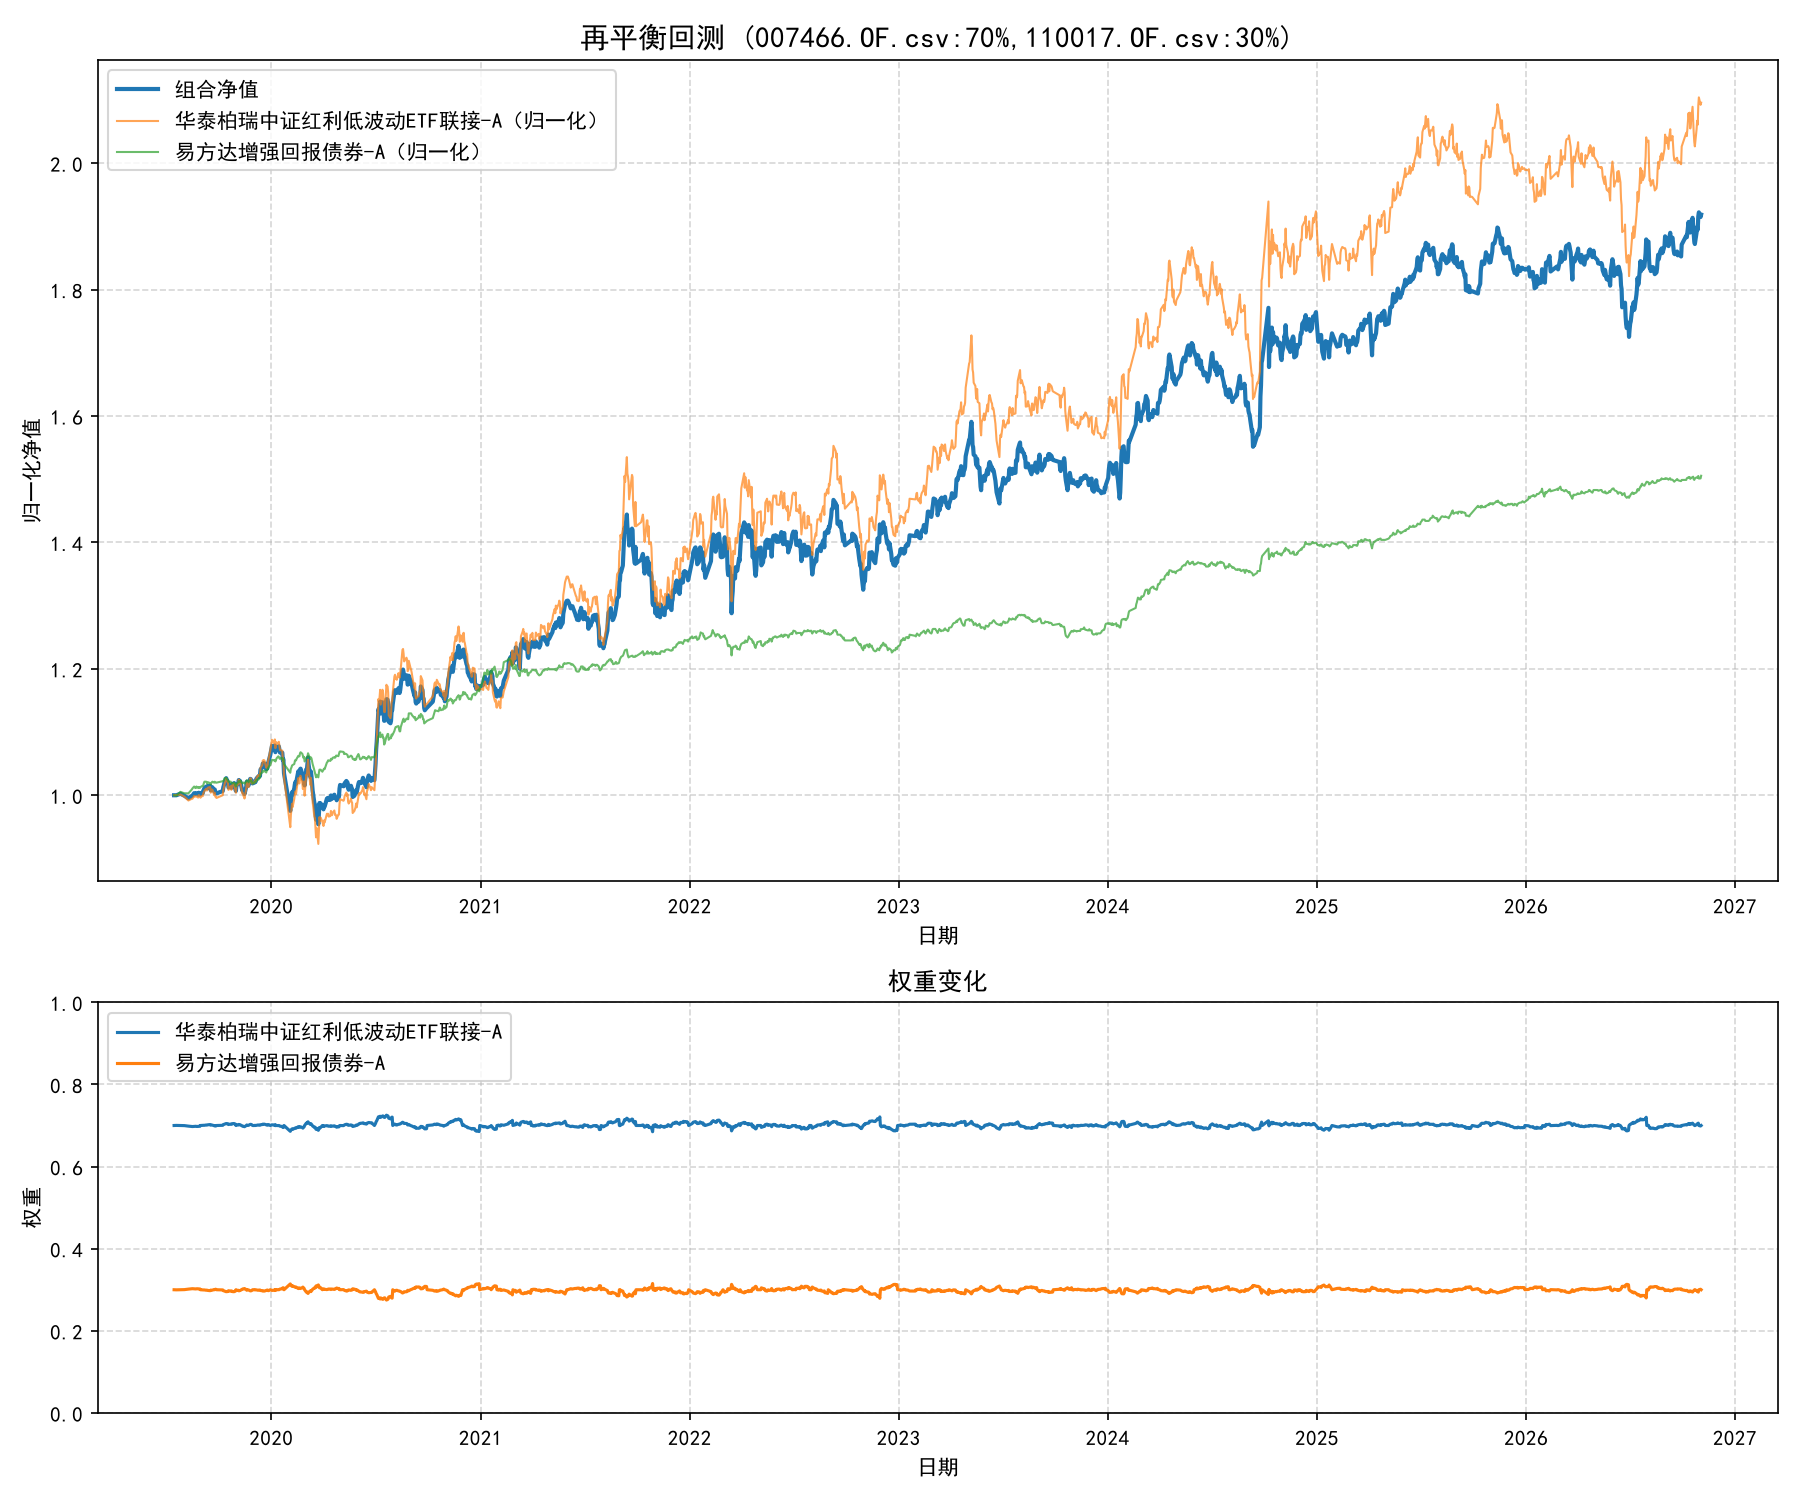
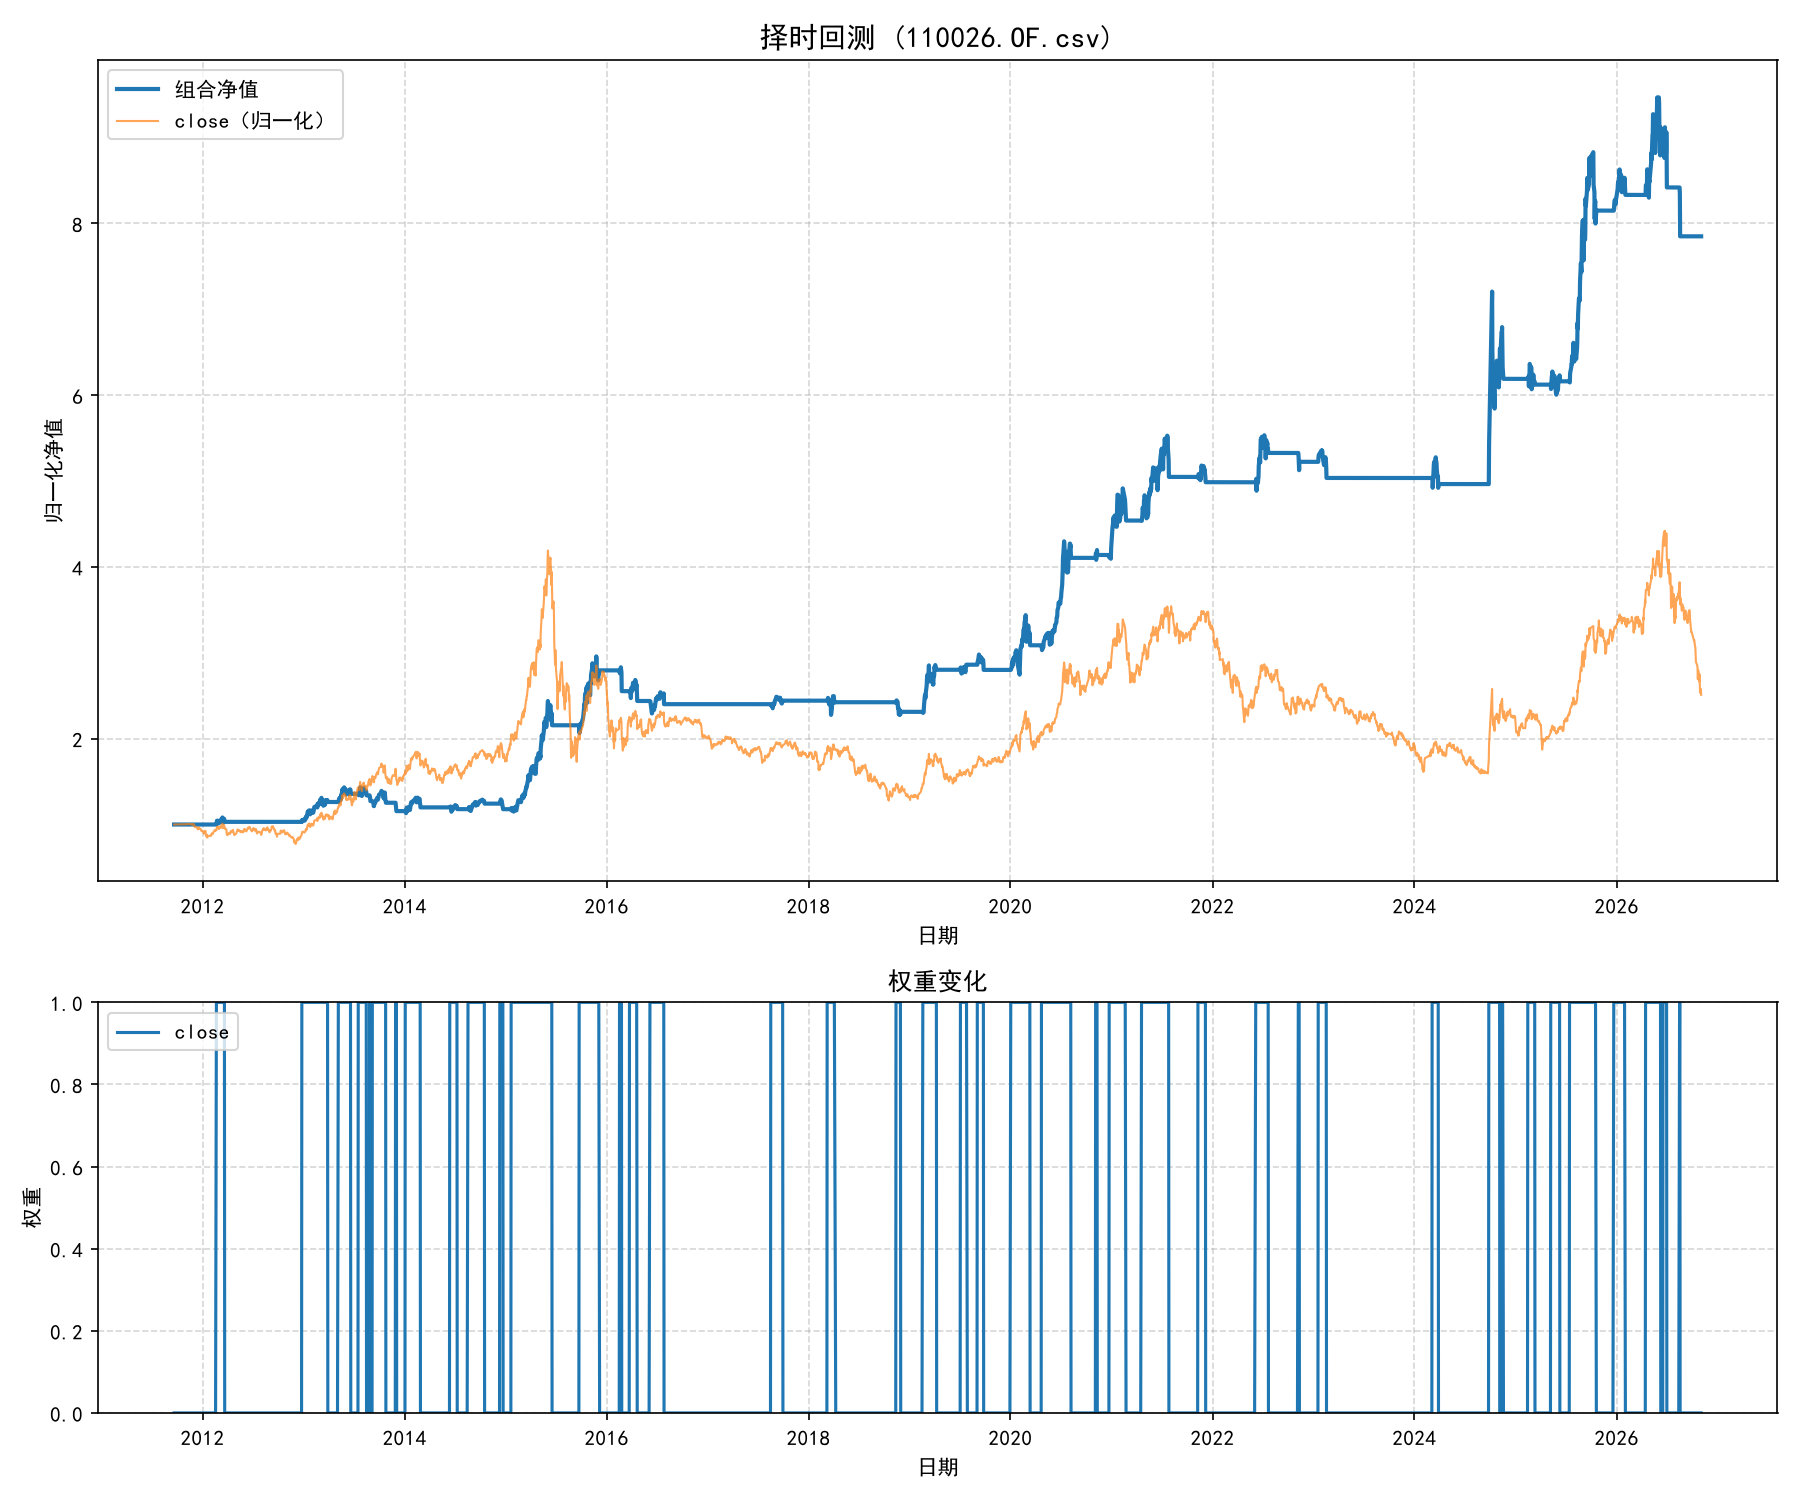
新增创业板择时策略 06_timing.py

diff --git a/程序员的量化实战课-专栏配套代码/05_rebalance.py b/程序员的量化实战课-专栏配套代码/05_rebalance.py
@@ -9,19 +9,10 @@ import os
 
 import pandas as pd
 
+from engine import backtest
 from utils import calc_metrics, plot_nav_and_weights
 
 
-def load_fund_name_map(data_dir: str) -> dict:
-    """从 basic.csv 读取基金名称映射，{ts_code: name}。"""
-    basic_path = os.path.join(data_dir, "basic.csv")
-    if not os.path.exists(basic_path):
-        return {}
-    df = pd.read_csv(basic_path, usecols=["ts_code", "name"])
-    return dict(zip(df["ts_code"], df["name"]))
-
-
-# 默认数据与输出目录：脚本所在目录下的 data/
 DEFAULT_DIR = os.path.join(os.path.dirname(os.path.abspath(__file__)), "data")
 
 
@@ -37,7 +28,7 @@ def parse_args():
     parser.add_argument("--data-dir", type=str, default=DEFAULT_DIR, help="CSV 数据目录")
     parser.add_argument("--outdir", type=str, default=DEFAULT_DIR, help="输出目录")
     parser.add_argument("--freq", type=str, default="M", choices=["M", "Q", "Y"], help="再平衡频率：M=月，Q=季，Y=年")
-    parser.add_argument("--fee", type=float, default=0.001, help="交易成本，默认 0.1%")
+    parser.add_argument("--fee", type=float, default=0.0001, help="交易成本，默认万分之一")
     return parser.parse_args()
 
 
@@ -62,49 +53,18 @@ def get_rebalance_dates(prices: pd.DataFrame, freq: str) -> set:
     return set(prices.index[~period.duplicated(keep="last")])
 
 
-def backtest(prices: pd.DataFrame, target_weights: dict, rebalance_dates: set, fee: float):
-    """
-    极简回测主循环：遍历每个交易日，按日更新持仓市值，
-    触发再平衡时扣除手续费并调仓至目标权重。
-    """
-    nav = pd.Series(index=prices.index, dtype=float)
-    weights = pd.DataFrame(index=prices.index, columns=prices.columns, dtype=float)
-
-    # 初始化仓位：1 万元组合按目标权重买入各资产
-    initial_capital = 10000.0
-    positions = {asset: initial_capital * target_weights[asset] / prices.iloc[0][asset]
-                 for asset in prices.columns}
-
-    for date in prices.index:
-        # 当前各资产市值
-        market_values = {asset: positions[asset] * prices.loc[date, asset] for asset in prices.columns}
-        total = sum(market_values.values())
-
-        if date in rebalance_dates:
-            # 计算目标市值
-            target_values = {asset: total * target_weights[asset] for asset in prices.columns}
-            # 成交额 ≈ 偏离市值绝对值之和 / 2（买卖各一次）
-            turnover = sum(abs(market_values[asset] - target_values[asset]) for asset in prices.columns) / 2
-            # 扣除交易成本
-            total -= turnover * 2 * fee
-            # 按目标权重重新买入
-            positions = {asset: total * target_weights[asset] / prices.loc[date, asset]
-                         for asset in prices.columns}
-            market_values = {asset: positions[asset] * prices.loc[date, asset] for asset in prices.columns}
-            total = sum(market_values.values())
-
-        # 记录当日净值与权重
-        nav.loc[date] = total
-        for asset in prices.columns:
-            weights.loc[date, asset] = market_values[asset] / total
-
-    return nav, weights
+def load_fund_name_map(data_dir: str) -> dict:
+    """从 basic.csv 读取基金名称映射，{ts_code: name}。"""
+    basic_path = os.path.join(data_dir, "basic.csv")
+    if not os.path.exists(basic_path):
+        return {}
+    df = pd.read_csv(basic_path, usecols=["ts_code", "name"])
+    return dict(zip(df["ts_code"], df["name"]))
 
 
 def main():
     args = parse_args()
 
-    # 解析目标权重
     target_weights = parse_weights(args.weights)
 
     # 合并所有资产的价格序列
@@ -121,28 +81,45 @@ def main():
 
     prices = prices.set_index("date").sort_index()
 
-    # 运行回测
+    # 构建目标权重矩阵：再平衡日设为 target_weights，其余日期保持前一日权重
     rebalance_dates = get_rebalance_dates(prices, args.freq)
-    nav, weights = backtest(prices, target_weights, rebalance_dates, args.fee)
+    weights_target = pd.DataFrame(index=prices.index, columns=prices.columns, dtype=float)
+    current_w = None
+    for date in prices.index:
+        if date in rebalance_dates:
+            current_w = target_weights
+        # 如果是第一天且非再平衡日，用目标权重初始化
+        if current_w is None:
+            current_w = target_weights
+        for asset in prices.columns:
+            weights_target.loc[date, asset] = current_w[asset]
+
+    # 运行回测
+    nav, weights = backtest(prices, weights_target, args.fee)
     metrics = calc_metrics(nav)
 
     # 输出指标
     weight_desc = ",".join(f"{k}:{v:.0%}" for k, v in target_weights.items())
     print(f"=== 再平衡回测 ({weight_desc}) ===")
+    print(f"区间: {metrics['start_date']} ~ {metrics['end_date']}")
     for k, v in metrics.items():
-        print(f"{k}: {v:.2%}" if k not in ("sharpe", "calmar") else f"{k}: {v:.2f}")
+        if k not in ("sharpe", "calmar", "start_date", "end_date"):
+            print(f"{k}: {v:.2%}")
+    print(f"sharpe: {metrics['sharpe']:.2f}")
+    print(f"calmar: {metrics['calmar']:.2f}")
 
     # 保存结果
     os.makedirs(args.outdir, exist_ok=True)
     pd.DataFrame([metrics]).to_csv(os.path.join(args.outdir, "rebalance_metrics.csv"),
                                    index=False, encoding="utf-8-sig")
 
-    # 构建基金名称映射（文件名 -> 名称）
+    # 构建基金名称映射
     fund_name_map = load_fund_name_map(args.data_dir)
     name_map = {file: fund_name_map.get(file.replace(".csv", ""), file) for file in target_weights.keys()}
     plot_path = plot_nav_and_weights(prices, nav, weights, args.outdir,
                                      title=f"再平衡回测 ({weight_desc})",
-                                     name_map=name_map)
+                                     name_map=name_map,
+                                     filename="rebalance.png")
     print(f"图表已保存: {plot_path}")
 
 

diff --git a/程序员的量化实战课-专栏配套代码/06_timing.py b/程序员的量化实战课-专栏配套代码/06_timing.py
@@ -1,0 +1,104 @@
+"""
+极简择时回测：roc_20 > 8% 买入，< 0% 卖出，其余保持不变。
+"""
+import argparse
+import os
+
+import pandas as pd
+
+from engine import backtest
+from utils import calc_metrics, plot_nav_and_weights
+
+
+DEFAULT_DIR = os.path.join(os.path.dirname(os.path.abspath(__file__)), "data")
+
+
+def parse_args():
+    parser = argparse.ArgumentParser(description="极简择时回测")
+    parser.add_argument("--symbol", type=str, default="110026.OF.csv", help="标的 CSV 文件名")
+    parser.add_argument("--roc-period", type=int, default=20, help="ROC 计算周期")
+    parser.add_argument("--buy-threshold", type=float, default=0.08, help="买入阈值")
+    parser.add_argument("--sell-threshold", type=float, default=0.0, help="卖出阈值")
+    parser.add_argument("--data-dir", type=str, default=DEFAULT_DIR, help="CSV 数据目录")
+    parser.add_argument("--outdir", type=str, default=DEFAULT_DIR, help="输出目录")
+    parser.add_argument("--fee", type=float, default=0.0001, help="交易成本，默认万分之一")
+    return parser.parse_args()
+
+
+def load_asset(path: str) -> pd.DataFrame:
+    df = pd.read_csv(path, parse_dates=["date"], usecols=["date", "close"])
+    return df.sort_values("date").drop_duplicates("date").set_index("date")
+
+
+def generate_signals(prices: pd.Series, roc_period: int, buy_threshold: float,
+                     sell_threshold: float) -> pd.Series:
+    """
+    生成持仓信号：roc > buy_threshold 时持仓 1，< sell_threshold 时空仓 0，其余保持前一日信号。
+    """
+    roc = prices / prices.shift(roc_period) - 1.0
+    signal = pd.Series(0.0, index=prices.index)
+
+    for i, date in enumerate(prices.index):
+        if i == 0:
+            signal.iloc[i] = 0.0
+            continue
+        if roc.loc[date] > buy_threshold:
+            signal.iloc[i] = 1.0
+        elif roc.loc[date] < sell_threshold:
+            signal.iloc[i] = 0.0
+        else:
+            signal.iloc[i] = signal.iloc[i - 1]
+
+    return signal
+
+
+def load_fund_name_map(data_dir: str) -> dict:
+    """从 basic.csv 读取基金名称映射，{ts_code: name}。"""
+    basic_path = os.path.join(data_dir, "basic.csv")
+    if not os.path.exists(basic_path):
+        return {}
+    df = pd.read_csv(basic_path, usecols=["ts_code", "name"])
+    return dict(zip(df["ts_code"], df["name"]))
+
+
+def main():
+    args = parse_args()
+
+    prices = load_asset(os.path.join(args.data_dir, args.symbol))
+    prices.columns = ["close"]
+    close = prices["close"]
+
+    signal = generate_signals(close, args.roc_period, args.buy_threshold, args.sell_threshold)
+
+    # 构造目标权重矩阵：signal=1 时权重 100%，signal=0 时权重 0%
+    weights_target = pd.DataFrame({args.symbol: signal}, index=close.index)
+
+    # 运行回测
+    prices_df = pd.DataFrame({args.symbol: close})
+    nav, weights = backtest(prices_df, weights_target, args.fee)
+    metrics = calc_metrics(nav)
+
+    print(f"=== 择时回测 ({args.symbol}) ===")
+    print(f"区间: {metrics['start_date']} ~ {metrics['end_date']}")
+    for k, v in metrics.items():
+        if k not in ("sharpe", "calmar", "start_date", "end_date"):
+            print(f"{k}: {v:.2%}")
+    print(f"sharpe: {metrics['sharpe']:.2f}")
+    print(f"calmar: {metrics['calmar']:.2f}")
+
+    os.makedirs(args.outdir, exist_ok=True)
+    pd.DataFrame([metrics]).to_csv(os.path.join(args.outdir, "timing_metrics.csv"),
+                                   index=False, encoding="utf-8-sig")
+
+    # 构建基金名称映射
+    fund_name_map = load_fund_name_map(args.data_dir)
+    name_map = {args.symbol: fund_name_map.get(args.symbol.replace(".csv", ""), args.symbol)}
+    plot_path = plot_nav_and_weights(prices_df, nav, weights, args.outdir,
+                                     title=f"择时回测 ({args.symbol})",
+                                     name_map=name_map,
+                                     filename="timing.png")
+    print(f"图表已保存: {plot_path}")
+
+
+if __name__ == "__main__":
+    main()

diff --git a/程序员的量化实战课-专栏配套代码/engine.py b/程序员的量化实战课-专栏配套代码/engine.py
@@ -1,0 +1,65 @@
+"""
+通用回测引擎：接收价格矩阵和每日目标权重矩阵，执行调仓并返回净值、权重。
+
+价格矩阵 prices: DataFrame, index=date, columns=assets
+目标权重矩阵 weights_target: DataFrame, index=date, columns=assets, 每行之和 <= 1
+空仓用权重 0 表示。
+"""
+import pandas as pd
+
+
+def backtest(prices: pd.DataFrame,
+             weights_target: pd.DataFrame,
+             fee: float,
+             *,
+             rebalance_dates=None):
+    """
+    极简回测：遍历每个交易日，根据目标权重和调仓信号执行交易。
+
+    参数：
+        prices: DataFrame, index=date, columns=assets，收盘价
+        weights_target: DataFrame, index=date, columns=assets，每日目标权重
+        fee: float, 交易成本（双边）
+        rebalance_dates: set/Timestamp list，实际执行调仓的日期；
+                         默认为 None，表示每天都按 weights_target 调仓
+
+    返回：
+        nav: Series, 每日组合净值
+        weights: DataFrame, 每日实际持仓权重
+    """
+    assets = prices.columns
+    nav = pd.Series(index=prices.index, dtype=float)
+    weights = pd.DataFrame(index=prices.index, columns=assets, dtype=float)
+
+    initial_capital = 10000.0
+    cash = initial_capital
+    positions = {asset: 0.0 for asset in assets}
+
+    for i, date in enumerate(prices.index):
+        price_today = prices.loc[date]
+
+        # 当前市值（按当日收盘价更新）
+        market_values = {asset: positions[asset] * price_today[asset] for asset in assets}
+        total = cash + sum(market_values.values())
+
+        # 目标权重
+        target = weights_target.loc[date]
+
+        # 只在调仓日执行调仓
+        if rebalance_dates is None or date in rebalance_dates:
+            target_values = {asset: total * target[asset] for asset in assets}
+            turnover = sum(abs(market_values[asset] - target_values[asset]) for asset in assets) / 2
+            total -= turnover * 2 * fee
+
+            positions = {asset: total * target[asset] / price_today[asset] for asset in assets}
+            invested = sum(positions[asset] * price_today[asset] for asset in assets)
+            cash = total - invested
+
+            market_values = {asset: positions[asset] * price_today[asset] for asset in assets}
+            total = cash + sum(market_values.values())
+
+        nav.loc[date] = total
+        for asset in assets:
+            weights.loc[date, asset] = market_values[asset] / total if total > 0 else 0.0
+
+    return nav, weights

diff --git a/程序员的量化实战课-专栏配套代码/utils.py b/程序员的量化实战课-专栏配套代码/utils.py
@@ -23,6 +23,8 @@ def calc_metrics(nav: pd.Series, risk_free: float = 0.02) -> dict:
     max_dd = ((nav - nav.cummax()) / nav.cummax()).min()
     calmar = ann_ret / abs(max_dd) if max_dd != 0 else 0.0
     return {
+        "start_date": nav.index[0].strftime("%Y-%m-%d"),
+        "end_date": nav.index[-1].strftime("%Y-%m-%d"),
         "total_return": total_ret,
         "annualized_return": ann_ret,
         "volatility": vol,
@@ -34,7 +36,7 @@ def calc_metrics(nav: pd.Series, risk_free: float = 0.02) -> dict:
 
 def plot_nav_and_weights(prices: pd.DataFrame, nav: pd.Series,
                          weights: pd.DataFrame, outdir: str, title: str,
-                         name_map: dict = None) -> str:
+                         name_map: dict = None, filename: str = "fund_comparison.png") -> str:
     """绘制净值曲线和权重变化。name_map 用于把文件名映射为基金名称。"""
     os.makedirs(outdir, exist_ok=True)
     name_map = name_map or {}
@@ -65,7 +67,7 @@ def plot_nav_and_weights(prices: pd.DataFrame, nav: pd.Series,
     ax2.grid(True, linestyle="--", alpha=0.5)
 
     plt.tight_layout()
-    path = os.path.join(outdir, "stock_bond_rebalance.png")
+    path = os.path.join(outdir, filename)
     plt.savefig(path, dpi=150)
     plt.close()
     return path
